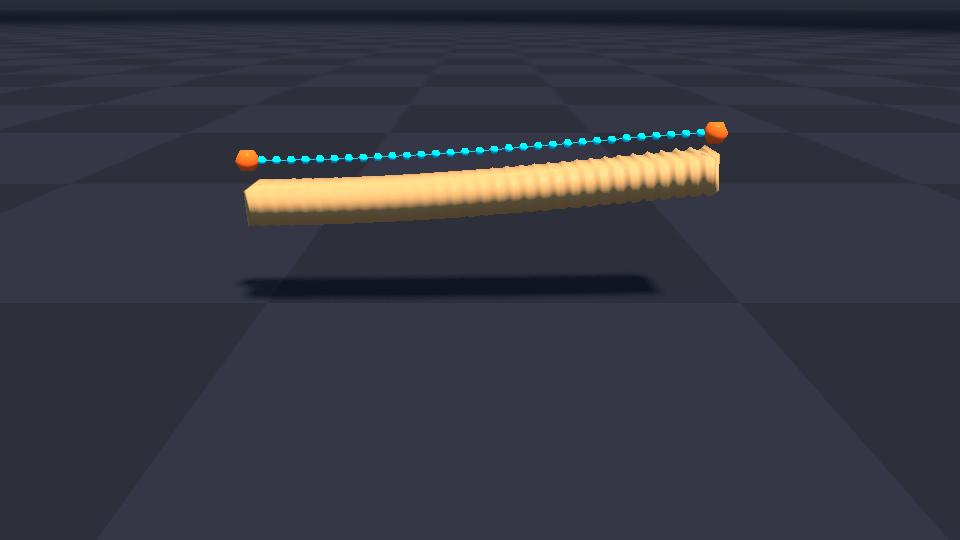
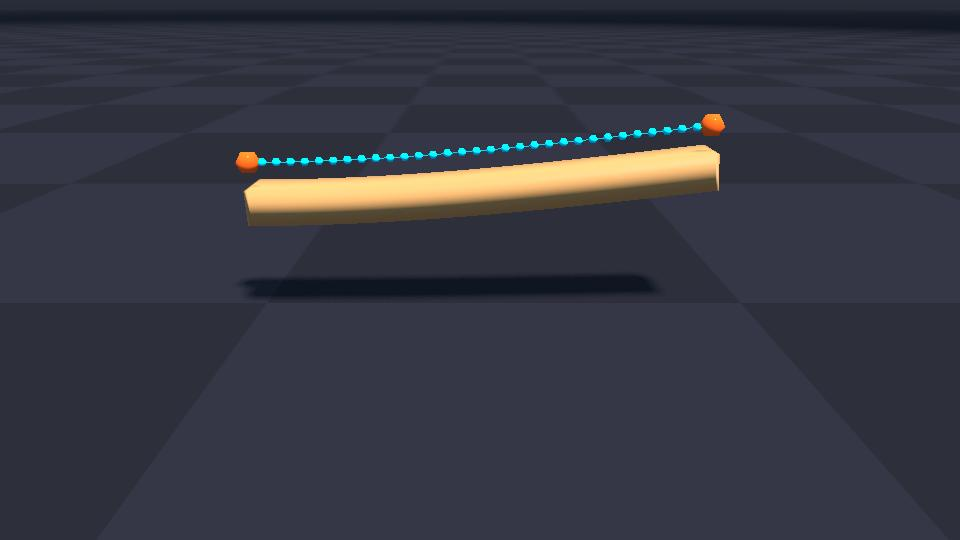
Seed elastic render samples exactly
Build reduced elastic beam bases with the same dense box surface, diagnostic, and attachment points used during ViewerGL rendering. This keeps dynamic cantilever, fourbar, and torsion report vertices on analytic modal phi values instead of inverse-distance interpolation, removing high-frequency surface artifacts.

Changed region(s): [[0.25, 0.2074, 0.7812, 0.3852]]

diff --git a/newton/examples/basic/_reduced_elastic.py b/newton/examples/basic/_reduced_elastic.py
@@ -1,0 +1,72 @@
+# SPDX-FileCopyrightText: Copyright (c) 2025 The Newton Developers
+# SPDX-License-Identifier: Apache-2.0
+
+from __future__ import annotations
+
+from collections.abc import Sequence
+
+import numpy as np
+
+
+BOX_RENDER_SEGMENTS = 128
+
+
+def box_surface_mesh(
+    length: float, half_width_y: float, half_width_z: float, segments: int = BOX_RENDER_SEGMENTS
+) -> tuple[np.ndarray, np.ndarray]:
+    """Return the x-subdivided box mesh used by reduced elastic beam examples."""
+    half_length = 0.5 * length
+    vertices: list[tuple[float, float, float]] = []
+    indices: list[int] = []
+
+    for i in range(segments + 1):
+        x = -half_length + length * float(i) / float(segments)
+        vertices.extend(
+            [
+                (x, -half_width_y, -half_width_z),
+                (x, half_width_y, -half_width_z),
+                (x, half_width_y, half_width_z),
+                (x, -half_width_y, half_width_z),
+            ]
+        )
+
+    def add_quad(a: int, b: int, c: int, d: int) -> None:
+        indices.extend([a, b, c, a, c, d])
+
+    for i in range(segments):
+        base = 4 * i
+        nxt = base + 4
+        add_quad(base + 0, base + 1, nxt + 1, nxt + 0)
+        add_quad(base + 1, base + 2, nxt + 2, nxt + 1)
+        add_quad(base + 2, base + 3, nxt + 3, nxt + 2)
+        add_quad(base + 3, base + 0, nxt + 0, nxt + 3)
+
+    add_quad(0, 3, 2, 1)
+    end = 4 * segments
+    add_quad(end + 0, end + 1, end + 2, end + 3)
+
+    return np.asarray(vertices, dtype=np.float32), np.asarray(indices, dtype=np.int32)
+
+
+def beam_render_sample_points(
+    length: float,
+    half_width_y: float,
+    half_width_z: float,
+    *,
+    extra_points: Sequence[Sequence[float]] = (),
+    segments: int = BOX_RENDER_SEGMENTS,
+    diagnostic_count: int = 33,
+) -> np.ndarray:
+    """Return modal sample points covering rendered beam vertices and overlays."""
+    surface_vertices, _ = box_surface_mesh(length, half_width_y, half_width_z, segments=segments)
+    diagnostic_points = np.column_stack(
+        (
+            np.linspace(-0.5 * length, 0.5 * length, diagnostic_count, dtype=np.float32),
+            np.zeros(diagnostic_count, dtype=np.float32),
+            np.full(diagnostic_count, half_width_z + 0.045, dtype=np.float32),
+        )
+    )
+    point_sets = [surface_vertices, diagnostic_points]
+    if extra_points:
+        point_sets.append(np.asarray(extra_points, dtype=np.float32).reshape((-1, 3)))
+    return np.vstack(point_sets).astype(np.float32, copy=False)

diff --git a/newton/tests/test_reduced_elastic_body.py b/newton/tests/test_reduced_elastic_body.py
@@ -8,6 +8,7 @@ import numpy as np
 import warp as wp
 
 import newton
+from newton.examples.basic._reduced_elastic import beam_render_sample_points, box_surface_mesh
 from newton.tests.unittest_utils import add_function_test, get_test_devices
 
 devices = get_test_devices()
@@ -360,6 +361,45 @@ def test_elastic_shape_box_winding(test, device):
         axis = int(np.argmax(np.abs(center / np.array([hx, hy, hz], dtype=np.float32))))
         expected_sign = 1.0 if center[axis] > 0.0 else -1.0
         test.assertGreater(float(normal[axis] * expected_sign), 0.0)
+
+
+def test_elastic_shape_box_exact_modal_samples(test, device):
+    length = 0.8
+    hy = 0.04
+    hz = 0.03
+    surface_points, _ = box_surface_mesh(length, hy, hz)
+    basis = newton.ModalGeneratorBeam(
+        length=length,
+        half_width_y=hy,
+        half_width_z=hz,
+        mode_specs=[
+            {
+                "type": newton.ModalGeneratorBeam.Mode.BENDING_Z,
+                "boundary": newton.ModalGeneratorBeam.Boundary.CANTILEVER_TIP,
+            }
+        ],
+    ).build(
+        sample_points=beam_render_sample_points(
+            length,
+            hy,
+            hz,
+            extra_points=((-0.5 * length, 0.0, 0.0), (0.5 * length, 0.0, 0.0)),
+        )
+    )
+
+    builder = newton.ModelBuilder(gravity=0.0)
+    body = builder.add_body_elastic(mass=1.0, inertia=_identity_inertia(), modal_basis=basis)
+    builder.add_shape_box(body, hx=0.5 * length, hy=hy, hz=hz)
+    builder.color()
+    model = builder.finalize(device=device)
+
+    samples = model.elastic_shape_vertex_sample.numpy()
+    np.testing.assert_array_equal(samples, np.arange(surface_points.shape[0], dtype=np.int32))
+    np.testing.assert_allclose(model.elastic_shape_vertex_local.numpy(), surface_points, atol=1.0e-7)
+
+    phi = model.elastic_shape_vertex_phi.numpy().reshape((-1, model.elastic_max_mode_count, 3))[:, 0]
+    expected_phi = np.asarray([basis.sample_value(i)[0] for i in range(surface_points.shape[0])], dtype=np.float32)
+    np.testing.assert_allclose(phi, expected_phi, atol=1.0e-7)
 
 
 def test_torsion_render_shape_sampling(test, device):
@@ -743,6 +783,12 @@ for device in devices:
         TestReducedElasticBody,
         "test_elastic_shape_box_winding",
         test_elastic_shape_box_winding,
+        devices=[device],
+    )
+    add_function_test(
+        TestReducedElasticBody,
+        "test_elastic_shape_box_exact_modal_samples",
+        test_elastic_shape_box_exact_modal_samples,
         devices=[device],
     )
     add_function_test(

diff --git a/newton/examples/basic/example_basic_reduced_elastic_beam.py b/newton/examples/basic/example_basic_reduced_elastic_beam.py
@@ -31,6 +31,7 @@ import warp as wp
 
 import newton
 import newton.examples
+from newton.examples.basic._reduced_elastic import beam_render_sample_points
 
 
 class Example:
@@ -45,6 +46,8 @@ class Example:
         self.args = args
 
         self.length = 0.9
+        self.hy = 0.045
+        self.hz = 0.035
         self.z = 0.22
         self.ei = 0.24
         self.tip_load_mean = 0.12
@@ -54,8 +57,8 @@ class Example:
 
         beam_basis = newton.ModalGeneratorBeam(
             length=self.length,
-            half_width_y=0.045,
-            half_width_z=0.035,
+            half_width_y=self.hy,
+            half_width_z=self.hz,
             mode_specs=[
                 {
                     "type": newton.ModalGeneratorBeam.Mode.BENDING_Z,
@@ -64,7 +67,14 @@ class Example:
             ],
             sample_count=33,
             label="cantilever_basis",
-        ).build()
+        ).build(
+            sample_points=beam_render_sample_points(
+                self.length,
+                self.hy,
+                self.hz,
+                extra_points=((-0.5 * self.length, 0.0, 0.0), (0.5 * self.length, 0.0, 0.0)),
+            )
+        )
 
         builder = newton.ModelBuilder(gravity=0.0)
         builder.add_ground_plane()
@@ -85,7 +95,7 @@ class Example:
 
         shape_cfg = newton.ModelBuilder.ShapeConfig()
         shape_cfg.density = 0.0
-        builder.add_shape_box(self.beam, hx=0.5 * self.length, hy=0.045, hz=0.035, cfg=shape_cfg)
+        builder.add_shape_box(self.beam, hx=0.5 * self.length, hy=self.hy, hz=self.hz, cfg=shape_cfg)
         self.fixed_joint = builder.add_joint_fixed(
             parent=-1,
             child=self.beam,

diff --git a/newton/examples/basic/example_basic_reduced_elastic_fourbar.py b/newton/examples/basic/example_basic_reduced_elastic_fourbar.py
@@ -29,6 +29,7 @@ import warp as wp
 
 import newton
 import newton.examples
+from newton.examples.basic._reduced_elastic import beam_render_sample_points
 
 
 def _quat_from_angle_z(theta: float):
@@ -72,6 +73,8 @@ class Example:
         self.c = 0.55
         self.d = 0.75
         self.z = 0.12
+        self.coupler_hy = 0.05
+        self.coupler_hz = 0.03
         self.theta2_0 = 0.75
         self.mode_q0 = np.array([0.08, 0.08, 0.0], dtype=np.float32)
 
@@ -85,8 +88,8 @@ class Example:
 
         coupler_basis = newton.ModalGeneratorBeam(
             length=self.b_rest,
-            half_width_y=0.05,
-            half_width_z=0.03,
+            half_width_y=self.coupler_hy,
+            half_width_z=self.coupler_hz,
             mode_specs=[
                 {"type": newton.ModalGeneratorBeam.Mode.AXIAL},
                 {
@@ -102,7 +105,14 @@ class Example:
             ],
             sample_count=33,
             label="coupler_basis",
-        ).build()
+        ).build(
+            sample_points=beam_render_sample_points(
+                self.b_rest,
+                self.coupler_hy,
+                self.coupler_hz,
+                extra_points=((-0.5 * self.b_rest, 0.0, 0.0), (0.5 * self.b_rest, 0.0, 0.0)),
+            )
+        )
 
         builder = newton.ModelBuilder(gravity=0.0)
         builder.add_ground_plane()
@@ -139,7 +149,7 @@ class Example:
         shape_cfg = newton.ModelBuilder.ShapeConfig()
         shape_cfg.density = 0.0
         builder.add_shape_box(self.crank, hx=self.a / 2.0, hy=0.035, hz=0.025, cfg=shape_cfg)
-        builder.add_shape_box(self.coupler, hx=self.b_rest / 2.0, hy=0.05, hz=0.03, cfg=shape_cfg)
+        builder.add_shape_box(self.coupler, hx=self.b_rest / 2.0, hy=self.coupler_hy, hz=self.coupler_hz, cfg=shape_cfg)
         builder.add_shape_box(self.rocker, hx=self.c / 2.0, hy=0.035, hz=0.025, cfg=shape_cfg)
 
         self.j_drive = builder.add_joint_revolute(

diff --git a/newton/examples/basic/example_basic_reduced_elastic_beam_vibration.py b/newton/examples/basic/example_basic_reduced_elastic_beam_vibration.py
@@ -31,6 +31,7 @@ import warp as wp
 
 import newton
 import newton.examples
+from newton.examples.basic._reduced_elastic import beam_render_sample_points
 
 
 class Example:
@@ -69,7 +70,14 @@ class Example:
             young_modulus=3.2e7,
             damping_ratio=0.001,
             label="cantilever_vibration_basis",
-        ).build()
+        ).build(
+            sample_points=beam_render_sample_points(
+                self.length,
+                self.hy,
+                self.hz,
+                extra_points=((-0.5 * self.length, 0.0, 0.0), (0.5 * self.length, 0.0, 0.0)),
+            )
+        )
         self.mode_mass = float(beam_basis.mode_mass[0])
         self.mode_stiffness = float(beam_basis.mode_stiffness[0])
         self.mode_damping = float(beam_basis.mode_damping[0])